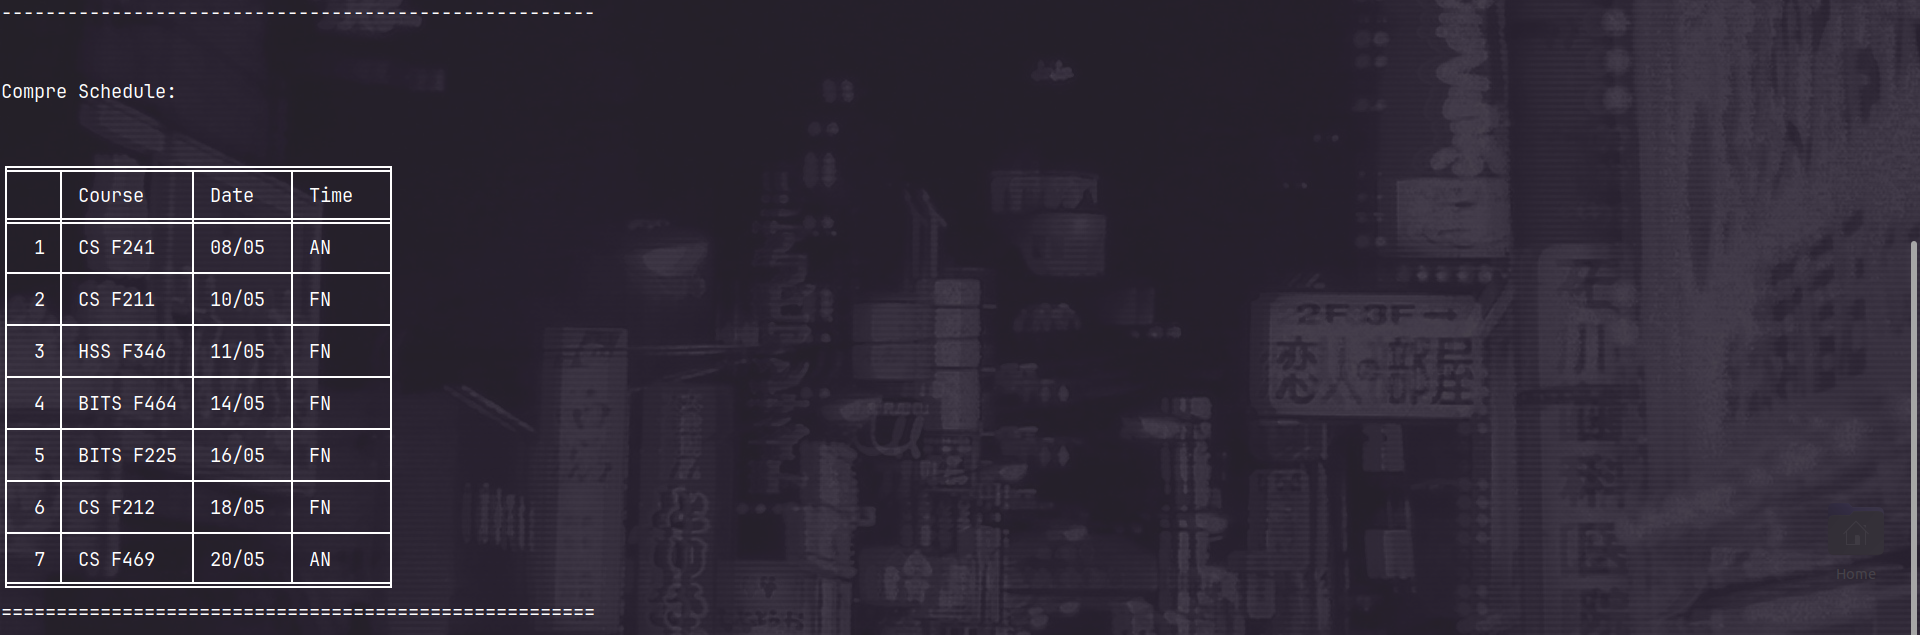
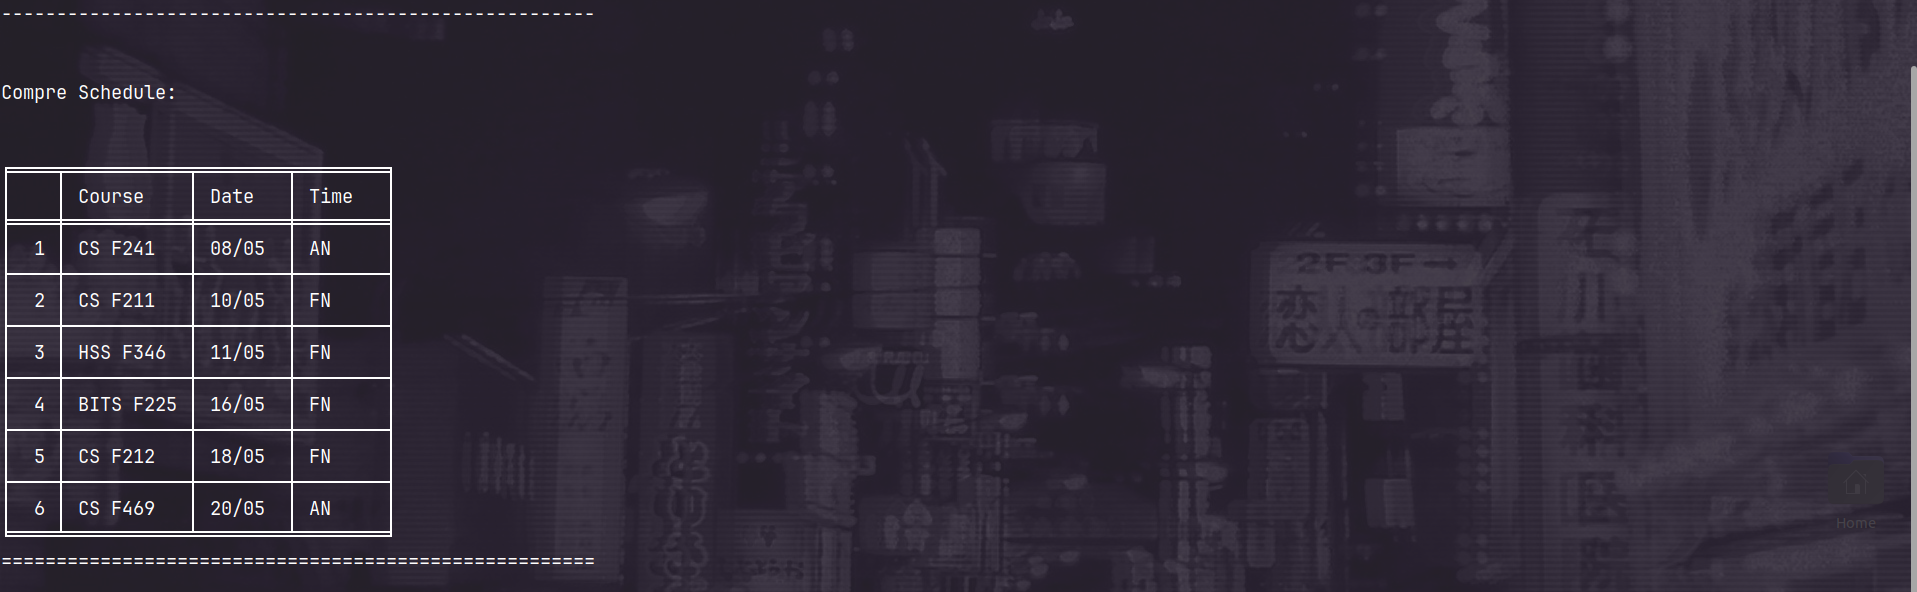
refactor: change print style to condensed by default as uncondensed works only till 5 pm

diff --git a/src/visualize.py b/src/visualize.py
@@ -126,7 +126,7 @@ if __name__ == "__main__":
     index = 0
     with open("my_timetables.json", "r") as f:
         timetables = json.load(f)
-    dfs = convert_timetable_to_pandas_dataframe(timetables, index, False)
+    dfs = convert_timetable_to_pandas_dataframe(timetables, index, True)
     print("======================================================\n")
     print("Class Schedule:\n\n")
     print(tabulate.tabulate(dfs[0], headers="keys", tablefmt="fancy_grid"))
